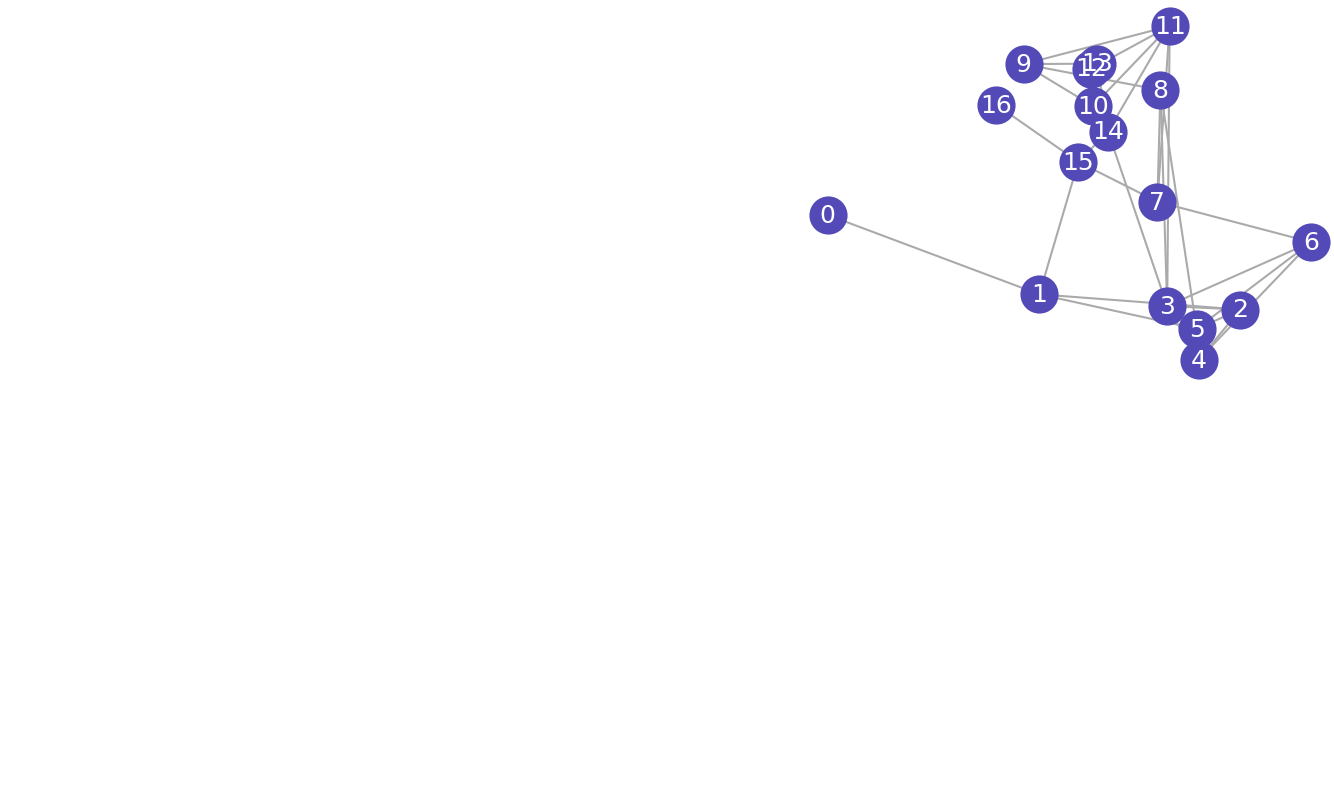
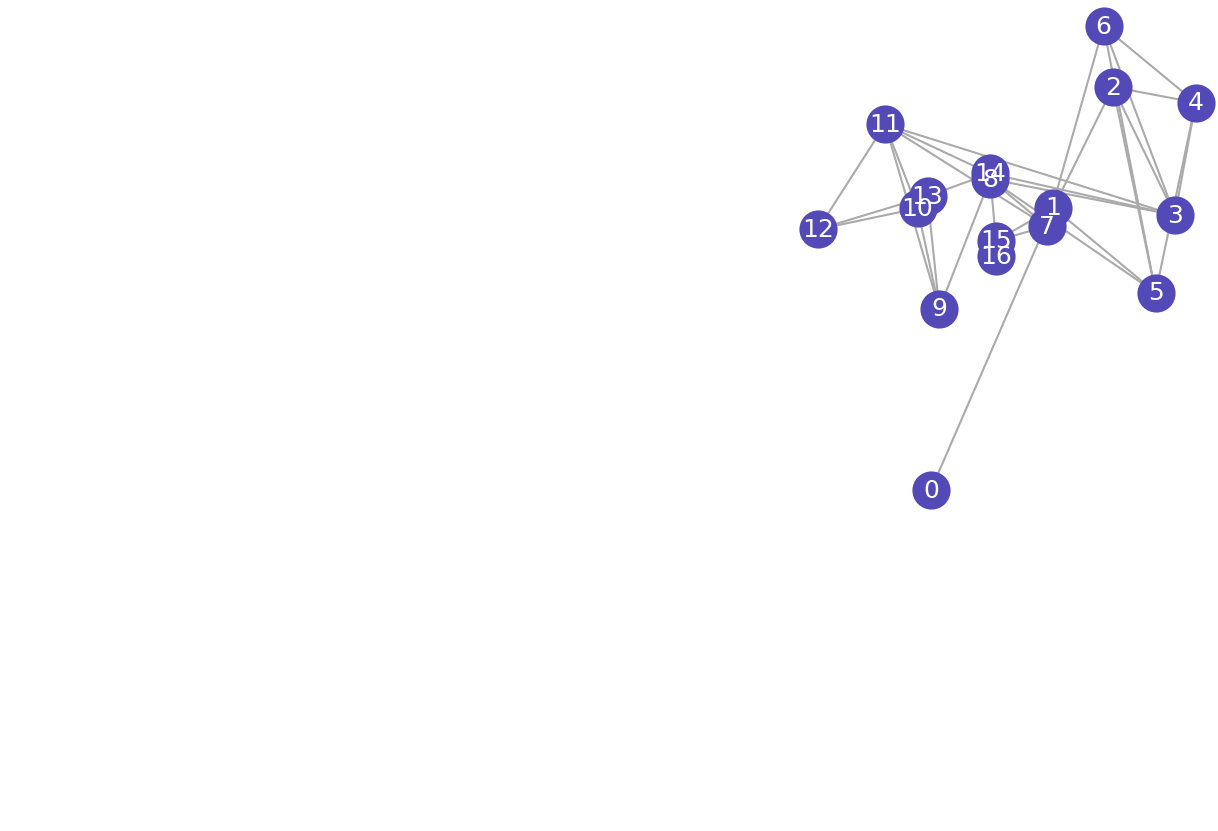
Stopped changing angle, shows original graph image

Changed region(s): [[0.5928, 0.0, 0.9984, 0.4812], [0.7488, 0.5414, 0.78, 0.6316], [0.6864, 0.3008, 0.7176, 0.3308]]

diff --git a/spring_graphs.py b/spring_graphs.py
@@ -136,10 +136,12 @@ def fruchterman_reingold(edges, num_nodes, width, height, iterations):
 
     positions = {}
     displacement = {}
-
     for i in range(num_nodes):
         positions[i] = (random.uniform(0, width), random.uniform(0, height))
-    
+        
+    E = nx.Graph()
+    E.add_edges_from(edges)
+    save_png(E, positions, 500, 300, "graph_original.png", 150)    
     
     area = width * height
     ideal_dist = math.sqrt(area/num_nodes)
@@ -298,15 +300,16 @@ def main():
     edges = [(0,1),(1,2), (2,3), (3,4), (4,5), (5,6), (6,7),(4,6), (4,2), (3,6), (2,5), (1,5), (7,8), (8,9), (9,10), (10,11), (11,12),(12,13), (13,14), (14,15), (15,16),(4,6), (4,2), (3,6), (2,5), (1,5), (14,3), (15, 7), (13, 9), (8, 3), (10, 13), (10, 12), (14, 11), (15, 1), (11, 3), (11, 7), (11, 9), (8, 5)]
     #, (7,8), (8,9), (9,10), (10,11), (11,12),(12,13), (13,14), (14,15), (15,16),(4,6), (4,2), (3,6), (2,5), (1,5), (14,3), (15, 7), (13, 9), (8, 3), (10, 13), (10, 12), (14, 11), (15, 1), (11, 3), (11, 7), (11, 9), (8, 5)
     num_nodes = 17
+
     positions = fruchterman_reingold(edges, num_nodes, 500, 300, 100)
     G = nx.Graph()
     G.add_edges_from(edges)
     save_png(G, positions, 500, 300, "graph_force.png", 150)
     
-    positions = change_angles(edges, positions, num_nodes, 500, 300, 100)
-    M = nx.Graph()
-    M.add_edges_from(edges)
-    save_png(M, positions, 500, 300, "graph_angles.png", 150)
+    # positions = change_angles(edges, positions, num_nodes, 500, 300, 100)
+    # M = nx.Graph()
+    # M.add_edges_from(edges)
+    # save_png(M, positions, 500, 300, "graph_angles.png", 150)
 
     edges = reconnect(positions, edges, num_nodes)
     
